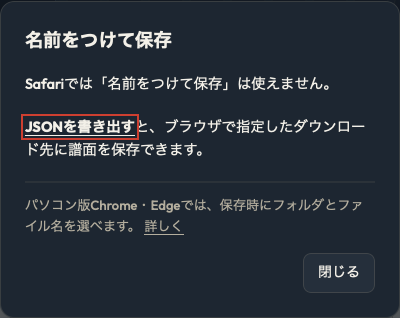
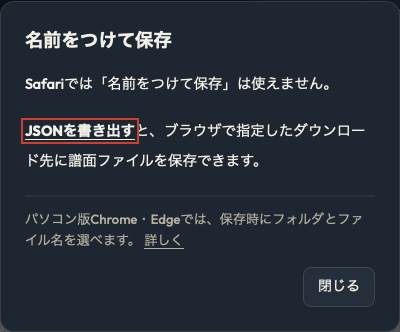
Space export guidance and enable the metronome by default

diff --git a/apps/cruise-studio/js/modules/sheet-cruise/sheet-cruise.js b/apps/cruise-studio/js/modules/sheet-cruise/sheet-cruise.js
@@ -669,7 +669,7 @@
         var actions=els.toolbar.querySelector('.sheet-toolbar-actions'),primary=group('sc-toolbar-primary');
         actions.prepend(primary);
         var caption=group('sc-playback-caption');caption.append(q('sc-song-target'),q('sc-song-position'));
-        countInEnabled=CS().storage.getAppSetting('scoreCountIn')===true;metronomeEnabled=CS().storage.getAppSetting('scoreMetronome')===true;
+        countInEnabled=CS().storage.getAppSetting('scoreCountIn')===true;metronomeEnabled=CS().storage.getAppSetting('scoreMetronome')!==false;
         playbackVisualDelay=Math.max(-1000,Math.min(1000,Number(CS().storage.getAppSetting('scoreVisualDelayMs'))||0));metronomeSound=['click','wood','beep','hihat'].includes(CS().storage.getAppSetting('scoreMetronomeSound'))?CS().storage.getAppSetting('scoreMetronomeSound'):'click';var storedMix=CS().storage.getAppSetting('scorePlaybackMix');Object.keys(playbackMix).forEach(function(key){var value=storedMix?.[key];if(typeof value==='number'&&Number.isFinite(value)&&value>=0&&value<=100)playbackMix[key]=value;});
         var playbackSettingsButton=button('sc-playback-settings','音設定',function(){openPlaybackSettings(playbackSettingsButton);});playbackSettingsButton.setAttribute('aria-haspopup','dialog');playbackSettingsButton.addEventListener('pointerdown',function(e){if(e.button===0)e.preventDefault();});
         var history=group('sc-toolbar-history'),historyButton=button('sc-history','履歴',function(){openSheetAction('history',historyButton);});historyButton.classList.add('sc-history-toggle');historyButton.setAttribute('aria-haspopup','dialog');history.append(els.undoBtn,els.redoBtn,historyButton);
@@ -1427,6 +1427,8 @@ dialog.sc-save-place{box-sizing:border-box;width:min(25rem,calc(100vw - 32px));m
 .sc-file-list footer button{min-height:40px;padding:8px 14px;border-radius:8px;}
 .sc-file-list [role=status]:empty{display:none;}
 .sc-save-place .sc-save-source{display:inline-block;margin:0 0 18px;font-size:.82rem;}
+.sc-save-place p.sc-export-instructions{line-height:2.1;}
+
 .sc-save-place a[download]{font-weight:700;text-decoration:underline;white-space:nowrap;}
 .sc-save-place footer+details{margin:16px 0 0;padding-top:12px;border-top:1px solid var(--studio-border-default);font-size:.82rem;}
 .sc-file-command-list{display:grid;gap:4px;max-height:55vh;overflow:auto;}
@@ -2574,7 +2576,7 @@ dialog.sc-save-place{box-sizing:border-box;width:min(25rem,calc(100vw - 32px));m
             viewport.scrollLeft=overflow*progress;
         }
     }
-    var previewLoopPeriod=0,previewCountIn=null,countInEnabled=false,metronomeEnabled=false,playbackNotice=null,practiceBpm=null,practiceOwner=null,editorRepeat=false,autoRangeRepeat=false,lastAutoRange='',previewRangeActive=false,syncSoundModes=null,scoreFullscreen=null,practiceRestart=0,practicePending=null,previewStartOffset=0;
+    var previewLoopPeriod=0,previewCountIn=null,countInEnabled=false,metronomeEnabled=true,playbackNotice=null,practiceBpm=null,practiceOwner=null,editorRepeat=false,autoRangeRepeat=false,lastAutoRange='',previewRangeActive=false,syncSoundModes=null,scoreFullscreen=null,practiceRestart=0,practicePending=null,previewStartOffset=0;
     function paintPlayhead(){
         previewRAF=null;if(barPreviewPhase!=='playing'||!pianoAudition)return;
         if(!currentFrame(previewFrame)||!state.active||document.hidden){stopPianoAudition();return;}
@@ -6148,7 +6150,8 @@ dialog.sc-save-place{box-sizing:border-box;width:min(25rem,calc(100vw - 32px));m
         explanation.textContent=(browser==='Safari'||browser==='Firefox'?browser:'この環境')+'では「名前をつけて保存」は使えません。';
         const alternative=document.createElement('p');
         link.textContent='JSONを書き出す';
-        alternative.append(link,'と、ブラウザで指定したダウンロード先に譜面を保存できます。');
+        alternative.className='sc-export-instructions';
+        alternative.append(link,'と、ブラウザで指定したダウンロード先に譜面ファイルを保存できます。');
         link.addEventListener('click',event=>{
             if(state.session!==session || session.snapshotVersion!==version){
                 event.preventDefault();

diff --git a/apps/cruise-studio/score-guide/index.html b/apps/cruise-studio/score-guide/index.html
@@ -10,7 +10,7 @@
 #browser-saving h3{margin:0}#browser-saving dl{margin-bottom:0}#browser-saving dt{padding-top:.7rem;border-top:1px solid #e0dbce}#browser-saving dd+dd{margin-top:.4em}
 .save-recommendation{text-decoration:underline;text-decoration-color:#b39050;text-underline-offset:.22em;text-decoration-thickness:2px}
 </style>
-<header id="top"><p>Cruise Studio · Ver. 0.218.0-rc.1</p><h1>譜面クルーズ 取扱説明書</h1><p>曲を作り、小節に演奏を入力し、印刷・配布するまでの操作を説明します。チュートリアルでは「そらまで」、機能別の解説では「海辺の散歩」を使います。</p></header>
+<header id="top"><p>Cruise Studio · Ver. 0.218.1-rc.1</p><h1>譜面クルーズ 取扱説明書</h1><p>曲を作り、小節に演奏を入力し、印刷・配布するまでの操作を説明します。チュートリアルでは「そらまで」、機能別の解説では「海辺の散歩」を使います。</p></header>
 <section id="overview" class="opening"><h2>画面の見かた</h2><p>操作は上、譜面は中央、再生は下にあります。左のスタジオメニューから他のツールにも移動できます。</p>
 <figure><div class="capture"><img src="overview.png" width="1440" height="1000" alt="スタジオの中で譜面クルーズを開いた画面全体"><svg aria-hidden="true" viewBox="0 0 1440 1000"><rect x="241" y="178" width="1159" height="201" rx="5" fill="none" stroke="#c32820" stroke-width="3"/><circle cx="238" cy="175" r="20" fill="#ab271e" stroke="white" stroke-width="2"/><text x="238" y="182.6" text-anchor="middle" font-family="sans-serif" font-size="24" font-weight="bold" fill="white">1</text><rect x="481" y="594" width="678" height="111" rx="5" fill="none" stroke="#c32820" stroke-width="3"/><circle cx="478" cy="591" r="20" fill="#ab271e" stroke="white" stroke-width="2"/><text x="478" y="598.6" text-anchor="middle" font-family="sans-serif" font-size="24" font-weight="bold" fill="white">2</text><rect x="241" y="929" width="1159" height="60" rx="5" fill="none" stroke="#c32820" stroke-width="3"/><circle cx="238" cy="926" r="20" fill="#ab271e" stroke="white" stroke-width="2"/><text x="238" y="933.6" text-anchor="middle" font-family="sans-serif" font-size="24" font-weight="bold" fill="white">3</text></svg></div><figcaption><ul class="legend"><li><b>1</b>上部カードで曲とツールを選ぶ</li><li><b>2</b>譜面で編集・再生する小節を選ぶ</li><li><b>3</b>再生、テンポ、音量を操作する</li></ul></figcaption></figure>
 <p><a href="#lesson">最初の1曲を作ってみる ↓</a></p></section>

diff --git a/apps/cruise-studio/edition-candidates/score/score-candidate-features.js b/apps/cruise-studio/edition-candidates/score/score-candidate-features.js
@@ -1,4 +1,4 @@
 /* Candidate edition policy. Pro admission is independently enforced by Studio. */
 Object.defineProperty(window.CruiseStudio, 'releaseFeatures', {
-    value: Object.freeze({scoreVersion:"0.218.0-rc.1", creation:true, allows:id => id !== 'preDtm'})
+    value: Object.freeze({scoreVersion:"0.218.1-rc.1", creation:true, allows:id => id !== 'preDtm'})
 });
